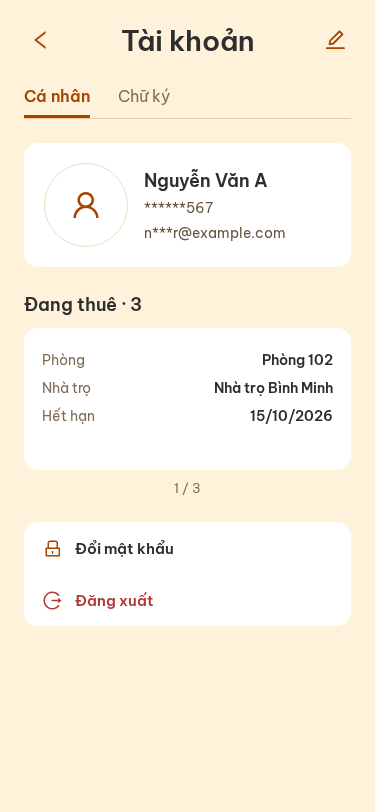
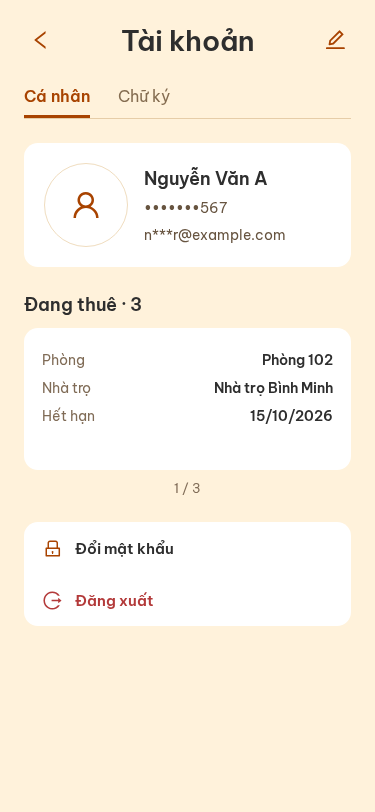
GLI-107: complete account screen UX

Changed region(s): [[0.3813, 0.1847, 0.7627, 0.3079]]

diff --git a/src/screens/AccountScreen.tsx b/src/screens/AccountScreen.tsx
@@ -1,10 +1,10 @@
 import { IconOutline } from "@ant-design/icons-react-native";
-import { useCallback, useEffect, useMemo, useState, type ComponentProps } from "react";
+import { useCallback, useEffect, useMemo, useRef, useState, type ComponentProps } from "react";
 import { ActivityIndicator, FlatList, Image, Pressable, ScrollView, StyleSheet, Text, useWindowDimensions, View } from "react-native";
 import { SafeAreaView } from "react-native-safe-area-context";
 
 import { colors, radius } from "@/theme/tokens";
-import { accountReviewScenario, maskEmail, maskPhone, sortActiveRentals, type AccountProfile, type ActiveRental } from "./accountModel";
+import { accountReviewScenario, isDisplayableEmail, maskEmail, maskPhone, sortActiveRentals, type AccountProfile, type ActiveRental } from "./accountModel";
 
 type AccountState = "loading" | "ready" | "error" | "session";
 type AccountPayload = { profile: AccountProfile; rentals: ActiveRental[] };
@@ -18,12 +18,18 @@ const reviewRentals: ActiveRental[] = [
 function mockPayload(): AccountPayload {
   const scenario = accountReviewScenario();
   const rentals = scenario === "zero" ? [] : scenario === "multiple" ? reviewRentals : [reviewRentals[0]!];
-  return { profile: { displayName: "Nguyễn Văn A", email: "nguyen.van.a.renter@example.com", phone: "0901234567", avatar: null }, rentals };
+  if (scenario === "email-invalid") return { profile: { displayName: "Nguyễn Văn A", email: "", phone: "0901234567", avatar: null }, rentals };
+  if (scenario === "long") return { profile: { displayName: "Nguyễn Văn A có tên hiển thị rất dài để kiểm tra nội dung không bị tràn", email: "nguyen.van.a.renter@example.com", phone: "0901234567", avatar: null }, rentals: [{ ...reviewRentals[0]!, property: "Nhà trọ có tên dài để kiểm tra xuống dòng an toàn ở các kích thước màn hình hỗ trợ" }] };
+  return { profile: { displayName: "Nguyễn Văn A", email: "nguyen.van.a.renter@example.com", phone: scenario === "phone-empty" ? null : "0901234567", avatar: null }, rentals };
 }
 
-export function AccountScreen({ sessionKey, onBack, onEditProfile, onChangePassword, onSignOut }: { sessionKey: string; onBack: () => void; onEditProfile: () => void; onChangePassword: () => void; onSignOut: () => void }) {
+export function AccountScreen({ sessionKey, onBack, onEditProfile, onChangePassword, onSignOut }: { sessionKey: string; onBack: () => void; onEditProfile: () => void; onChangePassword: () => void; onSignOut: () => void | Promise<void> }) {
   const [state, setState] = useState<AccountState>("loading");
   const [payload, setPayload] = useState<AccountPayload | null>(null);
+  const [tab, setTab] = useState<"personal" | "signature">("personal");
+  const [isConfirmingSignOut, setIsConfirmingSignOut] = useState(false);
+  const [isSigningOut, setIsSigningOut] = useState(false);
+  const signOutStarted = useRef(false);
   const scenario = accountReviewScenario();
   const load = useCallback(() => {
     setPayload(null);
@@ -32,7 +38,9 @@ export function AccountScreen({ sessionKey, onBack, onEditProfile, onChangePassw
     setTimeout(() => {
       if (scenario === "error" || scenario === "timeout") return setState("error");
       if (scenario === "session") return setState("session");
-      setPayload(mockPayload());
+      const nextPayload = mockPayload();
+      if (!isDisplayableEmail(nextPayload.profile.email)) return setState("error");
+      setPayload(nextPayload);
       setState("ready");
     }, 220);
   }, [scenario]);
@@ -41,19 +49,24 @@ export function AccountScreen({ sessionKey, onBack, onEditProfile, onChangePassw
   const rentals = useMemo(() => sortActiveRentals(payload?.rentals ?? []), [payload]);
   const { width } = useWindowDimensions();
 
+  const confirmSignOut = () => {
+    if (signOutStarted.current) return;
+    signOutStarted.current = true;
+    setIsSigningOut(true);
+    void Promise.resolve(onSignOut()).finally(() => { signOutStarted.current = false; setIsSigningOut(false); });
+  };
+
   return <SafeAreaView edges={["top", "left", "right"]} style={styles.safe}><ScrollView contentContainerStyle={styles.content}>
     <View style={styles.header}><HeaderButton accessibilityLabel="Quay lại" icon="left" onPress={onBack} /><Text accessibilityRole="header" style={styles.title}>Tài khoản</Text><HeaderButton accessibilityLabel="Chỉnh sửa thông tin cá nhân" icon="edit" onPress={onEditProfile} /></View>
-    <View accessibilityRole="tablist" style={styles.tabs}><Text accessibilityRole="tab" accessibilityState={{ selected: true }} style={styles.activeTab}>Cá nhân</Text><Text accessibilityRole="tab" accessibilityState={{ selected: false }} style={styles.tab}>Chữ ký</Text></View>
-    {state === "loading" ? <LoadingCard /> : null}
-    {state === "error" ? <ErrorState timeout={scenario === "timeout"} onRetry={load} /> : null}
-    {state === "session" ? <SessionState onSignOut={onSignOut} /> : null}
-    {state === "ready" && payload ? <><ProfileCard profile={payload.profile} />{rentals.length ? <RentalRegion rentals={rentals} width={width} /> : null}<View style={styles.actions}><Action label="Đổi mật khẩu" icon="lock" onPress={onChangePassword} /><Action label="Đăng xuất" icon="logout" onPress={onSignOut} danger /></View></> : null}
-  </ScrollView></SafeAreaView>;
+    <View accessibilityRole="tablist" style={styles.tabs}><Tab label="Cá nhân" selected={tab === "personal"} onPress={() => setTab("personal")} /><Tab label="Chữ ký" selected={tab === "signature"} onPress={() => setTab("signature")} /></View>
+    {tab === "signature" ? <SignaturePlaceholder /> : <>{state === "loading" ? <LoadingCard /> : null}{state === "error" ? <ErrorState timeout={scenario === "timeout"} onRetry={load} /> : null}{state === "session" ? <SessionState onSignOut={onSignOut} /> : null}{state === "ready" && payload ? <><ProfileCard profile={payload.profile} />{rentals.length ? <RentalRegion rentals={rentals} width={width} /> : null}<View style={styles.actions}><Action label="Đổi mật khẩu" icon="lock" onPress={onChangePassword} /><Action label="Đăng xuất" icon="logout" onPress={() => setIsConfirmingSignOut(true)} danger /></View></> : null}</>}
+  </ScrollView>{isConfirmingSignOut ? <SignOutDialog busy={isSigningOut} onCancel={() => !isSigningOut && setIsConfirmingSignOut(false)} onConfirm={confirmSignOut} /> : null}</SafeAreaView>;
 }
 
 function ProfileCard({ profile }: { profile: AccountProfile }) {
   const [avatarFailed, setAvatarFailed] = useState(!profile.avatar?.trim());
-  return <View style={styles.profileCard}><Avatar source={avatarFailed ? null : profile.avatar} onError={() => setAvatarFailed(true)} /><View style={styles.profileText}><Text style={styles.name}>{profile.displayName}</Text><Text accessibilityLabel={`Số điện thoại ${maskPhone(profile.phone)}`} style={styles.contact}>{maskPhone(profile.phone)}</Text><Text accessibilityLabel={`Email ${maskEmail(profile.email)}`} style={styles.contact}>{maskEmail(profile.email)}</Text></View></View>;
+  const phone = profile.phone ? maskPhone(profile.phone) : null;
+  return <View style={styles.profileCard}><Avatar source={avatarFailed ? null : profile.avatar} onError={() => setAvatarFailed(true)} /><View style={styles.profileText}><Text numberOfLines={2} style={styles.name}>{profile.displayName}</Text><Text accessibilityLabel={phone ? `Số điện thoại kết thúc bằng ${profile.phone!.slice(-3)}` : "Số điện thoại chưa cập nhật"} numberOfLines={2} style={styles.contact}>{phone ?? "Chưa cập nhật"}</Text><Text accessibilityLabel={`Email ${maskEmail(profile.email!)}`} ellipsizeMode="middle" numberOfLines={2} style={styles.contact}>{maskEmail(profile.email!)}</Text></View></View>;
 }
 
 function Avatar({ source, onError }: { source: string | null; onError: () => void }) {
@@ -69,13 +82,16 @@ function RentalRegion({ rentals, width }: { rentals: ActiveRental[]; width: numb
 }
 
 function RentalCard({ rental }: { rental: ActiveRental }) { return <View style={styles.rentalCard}><RentalValue label="Phòng" value={rental.room} /><RentalValue label="Nhà trọ" value={rental.property} /><RentalValue label="Hết hạn" value={new Date(`${rental.expiresAt}T00:00:00`).toLocaleDateString("vi-VN")} /></View>; }
-function RentalValue({ label, value }: { label: string; value: string }) { return <View style={styles.rentalRow}><Text style={styles.rentalLabel}>{label}</Text><Text style={styles.rentalValue}>{value}</Text></View>; }
+function RentalValue({ label, value }: { label: string; value: string }) { return <View style={styles.rentalRow}><Text style={styles.rentalLabel}>{label}</Text><Text numberOfLines={2} style={styles.rentalValue}>{value}</Text></View>; }
 function LoadingCard() { return <View accessibilityLabel="Đang tải thông tin tài khoản" style={styles.stateCard}><ActivityIndicator color={colors.action} /><Text style={styles.stateText}>Đang tải thông tin tài khoản</Text></View>; }
 function ErrorState({ timeout, onRetry }: { timeout: boolean; onRetry: () => void }) { return <View accessibilityRole="alert" style={styles.stateCard}><Text style={styles.stateText}>{timeout ? "Kết nối mất nhiều thời gian hơn dự kiến." : "Chưa thể tải thông tin tài khoản."}</Text><Pressable accessibilityRole="button" onPress={onRetry} style={styles.retry}><Text style={styles.retryText}>Thử lại</Text></Pressable></View>; }
 function SessionState({ onSignOut }: { onSignOut: () => void }) { return <View accessibilityRole="alert" style={styles.stateCard}><Text style={styles.stateText}>Phiên đăng nhập đã hết hạn. Vui lòng đăng nhập lại.</Text><Pressable accessibilityRole="button" onPress={onSignOut} style={styles.retry}><Text style={styles.retryText}>Đăng nhập lại</Text></Pressable></View>; }
+function Tab({ label, selected, onPress }: { label: string; selected: boolean; onPress: () => void }) { return <Pressable accessibilityRole="tab" accessibilityState={{ selected }} onPress={onPress} style={({ pressed }) => [styles.tabButton, selected && styles.tabSelected, pressed && styles.tabPressed]}><Text style={selected ? styles.activeTab : styles.tab}>{label}</Text></Pressable>; }
+function SignaturePlaceholder() { return <View accessibilityRole="alert" style={styles.stateCard}><Text style={styles.stateText}>UC-32/UC-33 — Xem chữ ký điện tử.</Text></View>; }
+function SignOutDialog({ busy, onCancel, onConfirm }: { busy: boolean; onCancel: () => void; onConfirm: () => void }) { return <View accessibilityLabel="Xác nhận đăng xuất" accessibilityRole="alert" accessibilityViewIsModal style={styles.dialogBackdrop}><View style={styles.dialog}><Text style={styles.dialogTitle}>Đăng xuất?</Text><Text style={styles.stateText}>Bạn có chắc chắn muốn đăng xuất khỏi tài khoản này?</Text><View style={styles.dialogActions}><Pressable accessibilityRole="button" disabled={busy} onPress={onCancel} style={styles.cancel}><Text style={styles.cancelText}>Hủy</Text></Pressable><Pressable accessibilityRole="button" accessibilityState={{ disabled: busy }} disabled={busy} onPress={onConfirm} style={styles.confirm}><Text style={styles.confirmText}>Đăng xuất</Text></Pressable></View></View></View>; }
 function HeaderButton({ accessibilityLabel, icon, onPress }: { accessibilityLabel: string; icon: ComponentProps<typeof IconOutline>["name"]; onPress: () => void }) { return <Pressable accessibilityRole="button" accessibilityLabel={accessibilityLabel} onPress={onPress} style={({ pressed }) => [styles.headerButton, pressed && styles.headerButtonPressed]}><IconOutline accessible={false} importantForAccessibility="no" color="#A84300" name={icon} size={24} /></Pressable>; }
 function Action({ label, icon, onPress, danger = false }: { label: string; icon: ComponentProps<typeof IconOutline>["name"]; onPress: () => void; danger?: boolean }) { return <Pressable accessibilityRole="button" onPress={onPress} style={styles.action}><IconOutline accessible={false} importantForAccessibility="no" color={danger ? "#B33A3A" : "#A84300"} name={icon} size={21} /><Text style={[styles.actionText, danger && styles.danger]}>{label}</Text></Pressable>; }
 
 const styles = StyleSheet.create({
-  safe: { backgroundColor: "#FFF2DB", flex: 1 }, content: { flexGrow: 1, paddingBottom: 40 }, header: { alignItems: "center", flexDirection: "row", justifyContent: "space-between", paddingHorizontal: 16, paddingTop: 16 }, headerButton: { alignItems: "center", borderRadius: 24, height: 48, justifyContent: "center", width: 48 }, headerButtonPressed: { backgroundColor: "#F3DEC0", opacity: 0.75 }, title: { color: "#2E2E2E", fontFamily: "BeVietnamPro_600SemiBold", fontSize: 28 }, tabs: { borderBottomColor: "#E6CDA8", borderBottomWidth: 1, flexDirection: "row", gap: 28, marginHorizontal: 24, marginTop: 22 }, tab: { color: "#856D51", fontFamily: "BeVietnamPro_400Regular", fontSize: 16, paddingBottom: 12 }, activeTab: { borderBottomColor: "#A84300", borderBottomWidth: 3, color: "#A84300", fontFamily: "BeVietnamPro_600SemiBold", fontSize: 16, paddingBottom: 9 }, profileCard: { alignItems: "center", backgroundColor: "#FFFFFF", borderRadius: radius.md, flexDirection: "row", marginHorizontal: 24, marginTop: 24, padding: 20 }, avatar: { alignItems: "center", backgroundColor: "#FFFFFF", borderColor: "#F0DDBF", borderRadius: 42, borderWidth: 1, height: 84, justifyContent: "center", overflow: "hidden", width: 84 }, profileText: { flex: 1, marginLeft: 16 }, name: { color: "#2E2E2E", fontFamily: "BeVietnamPro_600SemiBold", fontSize: 18 }, contact: { color: "#675440", fontFamily: "BeVietnamPro_400Regular", fontSize: 14, marginTop: 7 }, rentals: { marginTop: 26 }, sectionTitle: { color: "#2E2E2E", fontFamily: "BeVietnamPro_600SemiBold", fontSize: 18, marginBottom: 12, marginHorizontal: 24 }, rentalCard: { backgroundColor: "#FFFFFF", borderRadius: radius.md, marginHorizontal: 24, minHeight: 142, padding: 18 }, rentalRow: { flexDirection: "row", justifyContent: "space-between", marginVertical: 5 }, rentalLabel: { color: "#806C57", fontFamily: "BeVietnamPro_400Regular", fontSize: 14 }, rentalValue: { color: "#2E2E2E", flexShrink: 1, fontFamily: "BeVietnamPro_600SemiBold", fontSize: 14, textAlign: "right" }, indicator: { color: "#806C57", fontFamily: "BeVietnamPro_400Regular", fontSize: 13, marginTop: 10, textAlign: "center" }, actions: { backgroundColor: "#FFFFFF", borderRadius: radius.md, marginHorizontal: 24, marginTop: 26 }, action: { alignItems: "center", flexDirection: "row", gap: 12, minHeight: 52, paddingHorizontal: 18 }, actionText: { color: "#2E2E2E", fontFamily: "BeVietnamPro_600SemiBold", fontSize: 15 }, danger: { color: "#B33A3A" }, stateCard: { alignItems: "center", backgroundColor: "#FFFFFF", borderRadius: radius.md, gap: 14, margin: 24, padding: 28 }, stateText: { color: "#675440", fontFamily: "BeVietnamPro_400Regular", fontSize: 15, lineHeight: 23, textAlign: "center" }, retry: { backgroundColor: "#A84300", borderRadius: 8, paddingHorizontal: 18, paddingVertical: 10 }, retryText: { color: "#FFFFFF", fontFamily: "BeVietnamPro_600SemiBold" },
+  safe: { backgroundColor: "#FFF2DB", flex: 1 }, content: { flexGrow: 1, paddingBottom: 40 }, header: { alignItems: "center", flexDirection: "row", justifyContent: "space-between", paddingHorizontal: 16, paddingTop: 16 }, headerButton: { alignItems: "center", borderRadius: 24, height: 48, justifyContent: "center", width: 48 }, headerButtonPressed: { backgroundColor: "#F3DEC0", opacity: 0.75 }, title: { color: "#2E2E2E", fontFamily: "BeVietnamPro_600SemiBold", fontSize: 28 }, tabs: { borderBottomColor: "#E6CDA8", borderBottomWidth: 1, flexDirection: "row", gap: 28, marginHorizontal: 24, marginTop: 22 }, tabButton: { paddingBottom: 9 }, tabPressed: { opacity: 0.68 }, tabSelected: { borderBottomColor: "#A84300", borderBottomWidth: 3 }, tab: { color: "#856D51", fontFamily: "BeVietnamPro_400Regular", fontSize: 16 }, activeTab: { color: "#A84300", fontFamily: "BeVietnamPro_600SemiBold", fontSize: 16 }, profileCard: { alignItems: "center", backgroundColor: "#FFFFFF", borderRadius: radius.md, flexDirection: "row", marginHorizontal: 24, marginTop: 24, padding: 20 }, avatar: { alignItems: "center", backgroundColor: "#FFFFFF", borderColor: "#F0DDBF", borderRadius: 42, borderWidth: 1, height: 84, justifyContent: "center", overflow: "hidden", width: 84 }, profileText: { flex: 1, marginLeft: 16, minWidth: 0 }, name: { color: "#2E2E2E", fontFamily: "BeVietnamPro_600SemiBold", fontSize: 18, lineHeight: 25 }, contact: { color: "#675440", fontFamily: "BeVietnamPro_400Regular", flexShrink: 1, fontSize: 14, lineHeight: 20, marginTop: 7 }, rentals: { marginTop: 26 }, sectionTitle: { color: "#2E2E2E", fontFamily: "BeVietnamPro_600SemiBold", fontSize: 18, marginBottom: 12, marginHorizontal: 24 }, rentalCard: { backgroundColor: "#FFFFFF", borderRadius: radius.md, marginHorizontal: 24, minHeight: 142, padding: 18 }, rentalRow: { alignItems: "flex-start", flexDirection: "row", justifyContent: "space-between", marginVertical: 5 }, rentalLabel: { color: "#806C57", flexShrink: 0, fontFamily: "BeVietnamPro_400Regular", fontSize: 14, marginRight: 12 }, rentalValue: { color: "#2E2E2E", flexShrink: 1, fontFamily: "BeVietnamPro_600SemiBold", fontSize: 14, textAlign: "right" }, indicator: { color: "#806C57", fontFamily: "BeVietnamPro_400Regular", fontSize: 13, marginTop: 10, textAlign: "center" }, actions: { backgroundColor: "#FFFFFF", borderRadius: radius.md, marginHorizontal: 24, marginTop: 26 }, action: { alignItems: "center", flexDirection: "row", gap: 12, minHeight: 52, paddingHorizontal: 18 }, actionText: { color: "#2E2E2E", fontFamily: "BeVietnamPro_600SemiBold", fontSize: 15 }, danger: { color: "#B33A3A" }, stateCard: { alignItems: "center", backgroundColor: "#FFFFFF", borderRadius: radius.md, gap: 14, margin: 24, padding: 28 }, stateText: { color: "#675440", fontFamily: "BeVietnamPro_400Regular", fontSize: 15, lineHeight: 23, textAlign: "center" }, retry: { backgroundColor: "#A84300", borderRadius: 8, paddingHorizontal: 18, paddingVertical: 10 }, retryText: { color: "#FFFFFF", fontFamily: "BeVietnamPro_600SemiBold" }, dialogBackdrop: { alignItems: "center", backgroundColor: "rgba(46, 46, 46, 0.35)", bottom: 0, justifyContent: "center", left: 0, padding: 24, position: "absolute", right: 0, top: 0, zIndex: 1 }, dialog: { backgroundColor: "#FFFFFF", borderRadius: radius.md, elevation: 8, gap: 14, maxWidth: 460, padding: 24, shadowColor: "#000000", shadowOpacity: 0.2, shadowRadius: 8, width: "100%" }, dialogTitle: { color: "#2E2E2E", fontFamily: "BeVietnamPro_600SemiBold", fontSize: 20 }, dialogActions: { flexDirection: "row", gap: 12, justifyContent: "flex-end" }, cancel: { borderColor: "#A84300", borderRadius: 8, borderWidth: 1, paddingHorizontal: 16, paddingVertical: 10 }, cancelText: { color: "#A84300", fontFamily: "BeVietnamPro_600SemiBold" }, confirm: { backgroundColor: "#B33A3A", borderRadius: 8, paddingHorizontal: 16, paddingVertical: 10 }, confirmText: { color: "#FFFFFF", fontFamily: "BeVietnamPro_600SemiBold" },
 });

diff --git a/src/screens/__tests__/AccountScreen.test.tsx b/src/screens/__tests__/AccountScreen.test.tsx
@@ -29,7 +29,7 @@ describe("AccountScreen", () => {
     const edit = renderer.root.findAllByType(Pressable).find((node) => node.props.accessibilityLabel === "Chỉnh sửa thông tin cá nhân");
     act(() => back!.props.onPress());
     act(() => edit!.props.onPress());
-    expect(onBack).toHaveBeenCalledTimes(1); expect(onEditProfile).toHaveBeenCalledTimes(1); expect(onChangePassword).toHaveBeenCalledTimes(1); expect(onSignOut).toHaveBeenCalledTimes(1);
+    expect(onBack).toHaveBeenCalledTimes(1); expect(onEditProfile).toHaveBeenCalledTimes(1); expect(onChangePassword).toHaveBeenCalledTimes(1); expect(onSignOut).not.toHaveBeenCalled();
     act(() => renderer.unmount());
   });
 
@@ -64,6 +64,62 @@ describe("AccountScreen", () => {
     act(() => { renderer = TestRenderer.create(<AccountScreen onBack={jest.fn()} onChangePassword={jest.fn()} onEditProfile={jest.fn()} onSignOut={jest.fn()} sessionKey="renter-b" />); });
     act(() => { jest.advanceTimersByTime(220); });
     expect(text(renderer.root)).toContain("Phiên đăng nhập đã hết hạn. Vui lòng đăng nhập lại."); expect(text(renderer.root)).not.toContain("Nguyễn Văn A");
+    act(() => renderer.unmount());
+  });
+
+  it("switches tabs without rendering a Home action in the signature placeholder", () => {
+    process.env.EXPO_PUBLIC_ACCOUNT_REVIEW_SCENARIO = "one";
+    let renderer!: TestRenderer.ReactTestRenderer;
+    act(() => { renderer = TestRenderer.create(<AccountScreen onBack={jest.fn()} onChangePassword={jest.fn()} onEditProfile={jest.fn()} onSignOut={jest.fn()} sessionKey="renter-a" />); });
+    act(() => { jest.advanceTimersByTime(220); });
+    press(renderer.root, "Chữ ký");
+    expect(text(renderer.root)).toContain("UC-32/UC-33 — Xem chữ ký điện tử.");
+    expect(text(renderer.root)).not.toContain("Quay lại trang chủ");
+    expect(renderer.root.findAllByType(Pressable).find((node) => text(node).includes("Cá nhân"))?.props.accessibilityState).toEqual({ selected: false });
+    expect(renderer.root.findAllByType(Pressable).find((node) => text(node).includes("Chữ ký"))?.props.accessibilityState).toEqual({ selected: true });
+    press(renderer.root, "Cá nhân");
+    expect(text(renderer.root)).toContain("Nguyễn Văn A");
+    act(() => renderer.unmount());
+  });
+
+  it("uses non-sensitive partial/error behavior for invalid email and a nullable phone label", () => {
+    process.env.EXPO_PUBLIC_ACCOUNT_REVIEW_SCENARIO = "email-invalid";
+    let renderer!: TestRenderer.ReactTestRenderer;
+    act(() => { renderer = TestRenderer.create(<AccountScreen onBack={jest.fn()} onChangePassword={jest.fn()} onEditProfile={jest.fn()} onSignOut={jest.fn()} sessionKey="renter-a" />); });
+    act(() => { jest.advanceTimersByTime(220); });
+    expect(text(renderer.root)).toContain("Chưa thể tải thông tin tài khoản."); expect(text(renderer.root)).not.toContain("Nguyễn Văn A");
+    act(() => renderer.unmount());
+    process.env.EXPO_PUBLIC_ACCOUNT_REVIEW_SCENARIO = "phone-empty";
+    act(() => { renderer = TestRenderer.create(<AccountScreen onBack={jest.fn()} onChangePassword={jest.fn()} onEditProfile={jest.fn()} onSignOut={jest.fn()} sessionKey="renter-b" />); });
+    act(() => { jest.advanceTimersByTime(220); });
+    expect(renderer.root.findByProps({ accessibilityLabel: "Số điện thoại chưa cập nhật" })).toBeTruthy();
+    act(() => renderer.unmount());
+  });
+
+  it("wraps long profile and rental text to two lines", () => {
+    process.env.EXPO_PUBLIC_ACCOUNT_REVIEW_SCENARIO = "long";
+    let renderer!: TestRenderer.ReactTestRenderer;
+    act(() => { renderer = TestRenderer.create(<AccountScreen onBack={jest.fn()} onChangePassword={jest.fn()} onEditProfile={jest.fn()} onSignOut={jest.fn()} sessionKey="renter-a" />); });
+    act(() => { jest.advanceTimersByTime(220); });
+    expect(renderer.root.findByProps({ children: "Nguyễn Văn A có tên hiển thị rất dài để kiểm tra nội dung không bị tràn" }).props.numberOfLines).toBe(2);
+    expect(renderer.root.findByProps({ children: "Nhà trọ có tên dài để kiểm tra xuống dòng an toàn ở các kích thước màn hình hỗ trợ" }).props.numberOfLines).toBe(2);
+    act(() => renderer.unmount());
+  });
+
+  it("cancels or confirms sign-out exactly once while the flow is pending", async () => {
+    process.env.EXPO_PUBLIC_ACCOUNT_REVIEW_SCENARIO = "one";
+    let resolveSignOut!: () => void;
+    const onSignOut = jest.fn(() => new Promise<void>((resolve) => { resolveSignOut = resolve; }));
+    let renderer!: TestRenderer.ReactTestRenderer;
+    act(() => { renderer = TestRenderer.create(<AccountScreen onBack={jest.fn()} onChangePassword={jest.fn()} onEditProfile={jest.fn()} onSignOut={onSignOut} sessionKey="renter-a" />); });
+    act(() => { jest.advanceTimersByTime(220); });
+    press(renderer.root, "Đăng xuất"); expect(text(renderer.root)).toContain("Đăng xuất?");
+    press(renderer.root, "Hủy"); expect(text(renderer.root)).not.toContain("Đăng xuất?"); expect(onSignOut).not.toHaveBeenCalled();
+    press(renderer.root, "Đăng xuất");
+    const confirm = renderer.root.findAllByType(Pressable).find((node) => text(node).includes("Đăng xuất") && node.props.accessibilityState?.disabled === false);
+    act(() => { confirm!.props.onPress(); confirm!.props.onPress(); });
+    expect(onSignOut).toHaveBeenCalledTimes(1);
+    await act(async () => { resolveSignOut(); await Promise.resolve(); });
     act(() => renderer.unmount());
   });
 });

diff --git a/tests/web/account-visual.spec.ts b/tests/web/account-visual.spec.ts
@@ -1,6 +1,6 @@
 import { expect, test } from "@playwright/test";
 
-const scenarios = ["zero", "one", "multiple", "loading", "error", "timeout", "session"] as const;
+const scenarios = ["zero", "one", "multiple", "loading", "error", "timeout", "session", "long"] as const;
 
 async function openAccount(page: import("@playwright/test").Page, scenario: typeof scenarios[number], viewport: { width: number; height: number }) {
   await page.setViewportSize(viewport);
@@ -27,10 +27,33 @@ test("the Account back control falls back to Home for direct entry", async ({ pa
   await expect(page.getByText("Xin chào")).toBeVisible();
 });
 
+test("Personal and Signature tabs switch without a Home action", async ({ page }) => {
+  await openAccount(page, "one", { width: 375, height: 812 });
+  await page.getByRole("tab", { name: "Chữ ký" }).click();
+  await expect(page.getByText("UC-32/UC-33 — Xem chữ ký điện tử.")).toBeVisible();
+  await expect(page.getByRole("button", { name: "Quay lại trang chủ" })).toHaveCount(0);
+  await page.screenshot({ path: "evidence/uc04-account/signature-375x812.png", fullPage: true });
+  await page.setViewportSize({ width: 1280, height: 900 });
+  await page.screenshot({ path: "evidence/uc04-account/signature-1280x900.png", fullPage: true });
+  await page.getByRole("tab", { name: "Cá nhân" }).click();
+  await expect(page.getByText("Nguyễn Văn A")).toBeVisible();
+});
+
+test("logout confirmation can cancel before confirming the existing flow", async ({ page }) => {
+  await openAccount(page, "one", { width: 375, height: 812 });
+  await page.getByRole("button", { name: "Đăng xuất" }).click();
+  await expect(page.getByText("Đăng xuất?")).toBeVisible();
+  await page.screenshot({ path: "evidence/uc04-account/logout-confirm-375x812.png", fullPage: true });
+  await page.getByRole("button", { name: "Hủy" }).click();
+  await expect(page.getByText("Đăng xuất?")).toHaveCount(0);
+  await page.getByRole("button", { name: "Đăng xuất" }).click();
+  await page.getByRole("button", { name: "Đăng xuất", exact: true }).last().click();
+});
+
 for (const scenario of scenarios) {
   test(`captures ${scenario} account state at mobile and web viewports`, async ({ page }) => {
     await openAccount(page, scenario, { width: 375, height: 812 });
-    await expect(page.getByText("Nguyễn Văn A")).toHaveCount(["zero", "one", "multiple"].includes(scenario) ? 1 : 0);
+    await expect(page.getByText("Nguyễn Văn A")).toHaveCount(["zero", "one", "multiple", "long"].includes(scenario) ? 1 : 0);
     await page.screenshot({ path: `evidence/uc04-account/${scenario}-375x812.png`, fullPage: true });
     await openAccount(page, scenario, { width: 1280, height: 900 });
     await page.screenshot({ path: `evidence/uc04-account/${scenario}-1280x900.png`, fullPage: true });

diff --git a/src/screens/accountModel.ts b/src/screens/accountModel.ts
@@ -1,10 +1,11 @@
-export type AccountProfile = { displayName: string; email: string; phone: string; avatar: string | null };
+export type AccountProfile = { displayName: string; email: string | null; phone: string | null; avatar: string | null };
 export type ActiveRental = { contractId: string; room: string; property: string; expiresAt: string; signedAt: string };
 
 export function maskPhone(phone: string) {
-  const tail = phone.replace(/\D/g, "").slice(-3);
-  return tail ? `******${tail}` : "";
+  return /^\d{10}$/.test(phone) ? `•••••••${phone.slice(-3)}` : null;
 }
+
+export function isDisplayableEmail(email: string | null) { return typeof email === "string" && email.trim().length > 0 && /^[^@\s]+@[^@\s]+$/.test(email); }
 
 export function maskEmail(email: string) {
   const at = email.lastIndexOf("@");
@@ -24,5 +25,5 @@ export function accountReviewScenario() {
   if (process.env.EXPO_PUBLIC_ACCOUNT_REVIEW !== "true" && process.env.EXPO_PUBLIC_HOME_REVIEW !== "true") return process.env.EXPO_PUBLIC_ACCOUNT_REVIEW_SCENARIO;
   if (typeof globalThis.location === "undefined") return undefined;
   const scenario = new URLSearchParams(globalThis.location.search).get("account");
-  return ["zero", "one", "multiple", "loading", "error", "timeout", "session"].includes(scenario ?? "") ? scenario : "one";
+  return ["zero", "one", "multiple", "loading", "error", "timeout", "session", "long", "phone-empty", "email-invalid"].includes(scenario ?? "") ? scenario : "one";
 }

diff --git a/src/navigation/RootNavigator.tsx b/src/navigation/RootNavigator.tsx
@@ -25,7 +25,7 @@ function AuthenticatedHome({ navigation }: { navigation: { navigate: (screen: "A
 
 function AuthenticatedAccount({ navigation }: { navigation: { canGoBack: () => boolean; goBack: () => void; navigate: (screen: "Destination", params: { action: "edit-profile" | "change-password" }) => void; reset: (state: { index: number; routes: { name: "Home" }[] }) => void } }) {
   const { token, signOut } = useAuth();
-  return <AccountScreen sessionKey={token ?? ""} onBack={() => navigation.canGoBack() ? navigation.goBack() : navigation.reset({ index: 0, routes: [{ name: "Home" }] })} onChangePassword={() => navigation.navigate("Destination", { action: "change-password" })} onEditProfile={() => navigation.navigate("Destination", { action: "edit-profile" })} onSignOut={() => { void signOut(); }} />;
+  return <AccountScreen sessionKey={token ?? ""} onBack={() => navigation.canGoBack() ? navigation.goBack() : navigation.reset({ index: 0, routes: [{ name: "Home" }] })} onChangePassword={() => navigation.navigate("Destination", { action: "change-password" })} onEditProfile={() => navigation.navigate("Destination", { action: "edit-profile" })} onSignOut={signOut} />;
 }
 
 function DestinationScreen({ navigation, route }: { navigation: { goBack: () => void }; route: { params: RootStackParamList["Destination"] } }) {

diff --git a/src/screens/__tests__/accountModel.test.ts b/src/screens/__tests__/accountModel.test.ts
@@ -1,4 +1,4 @@
-import { accountReviewScenario, maskEmail, maskPhone, sortActiveRentals } from "../accountModel";
+import { accountReviewScenario, isDisplayableEmail, maskEmail, maskPhone, sortActiveRentals } from "../accountModel";
 
 describe("account model", () => {
   it("masks each approved email local-part length without changing its domain", () => {
@@ -10,9 +10,18 @@ describe("account model", () => {
   });
 
   it("shows only the last three phone digits", () => {
-    expect(maskPhone("0901 234 567")).toBe("******567");
-    expect(maskPhone("12")).toBe("******12");
-    expect(maskPhone("abc")).toBe("");
+    expect(maskPhone("0901234567")).toBe("•••••••567");
+    expect(maskPhone("0901234567")?.match(/•/g)).toHaveLength(7);
+    expect(maskPhone("0901 234 567")).toBeNull();
+    expect(maskPhone("12")).toBeNull();
+    expect(maskPhone("abc")).toBeNull();
+  });
+
+  it("requires a non-empty valid email before rendering approved PII", () => {
+    expect(isDisplayableEmail("mai@example.com")).toBe(true);
+    expect(isDisplayableEmail("")).toBe(false);
+    expect(isDisplayableEmail(null)).toBe(false);
+    expect(isDisplayableEmail("not-an-email")).toBe(false);
   });
 
   it("sorts active rentals by signedAt then contractId, never expiry", () => {

diff --git a/evidence/uc04-account/README.md b/evidence/uc04-account/README.md
@@ -1,9 +1,13 @@
 # UC-04 account review evidence
 
-Generated by `EXPO_PUBLIC_HOME_REVIEW=true EXPO_PUBLIC_ACCOUNT_REVIEW=true npm run test:web`.
+Generated by `EXPO_PUBLIC_HOME_REVIEW=true npm run test:web`.
 
 Each approved runtime fixture is captured at mobile portrait `375x812` and web
 desktop `1280x900`: `zero`, `one`, `multiple`, `loading`, `error`, `timeout`,
 and `session`. The local review fixture contains only the G1-approved display
 fields and active-rental summary values; no API calls or persistent PII cache
 are involved.
+
+The UX follow-up also records the long-content layout (`long` at both
+viewports), the electronic-signature placeholder (`signature` at both
+viewports), and the mobile sign-out confirmation (`logout-confirm-375x812`).
